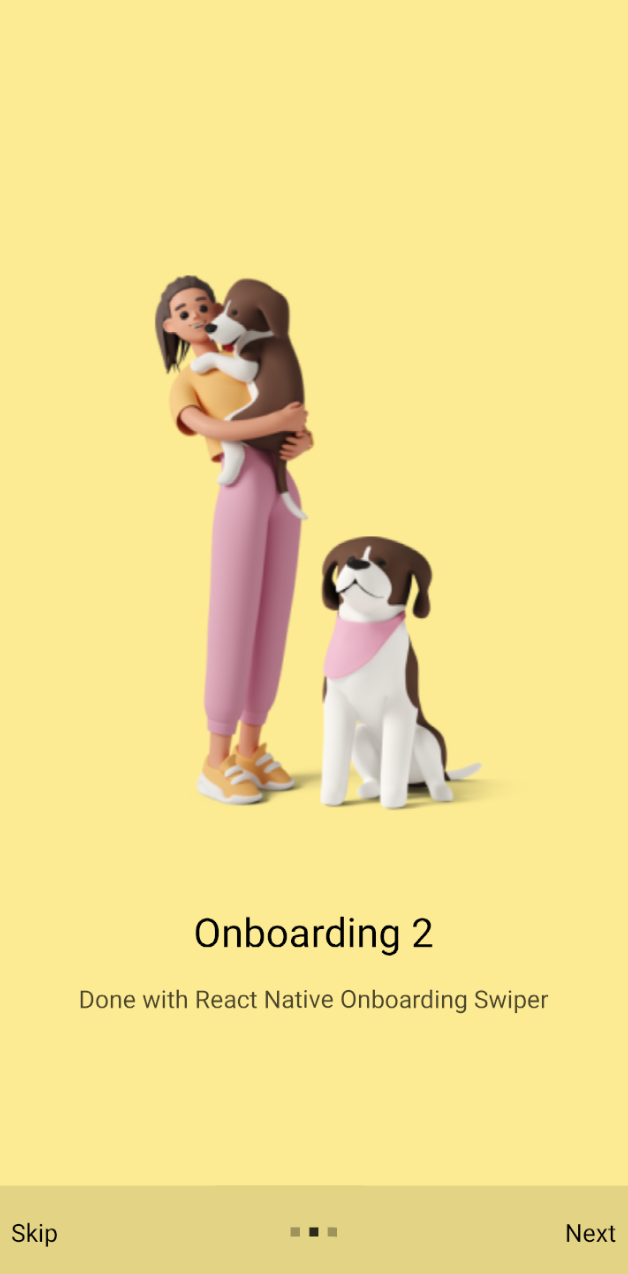
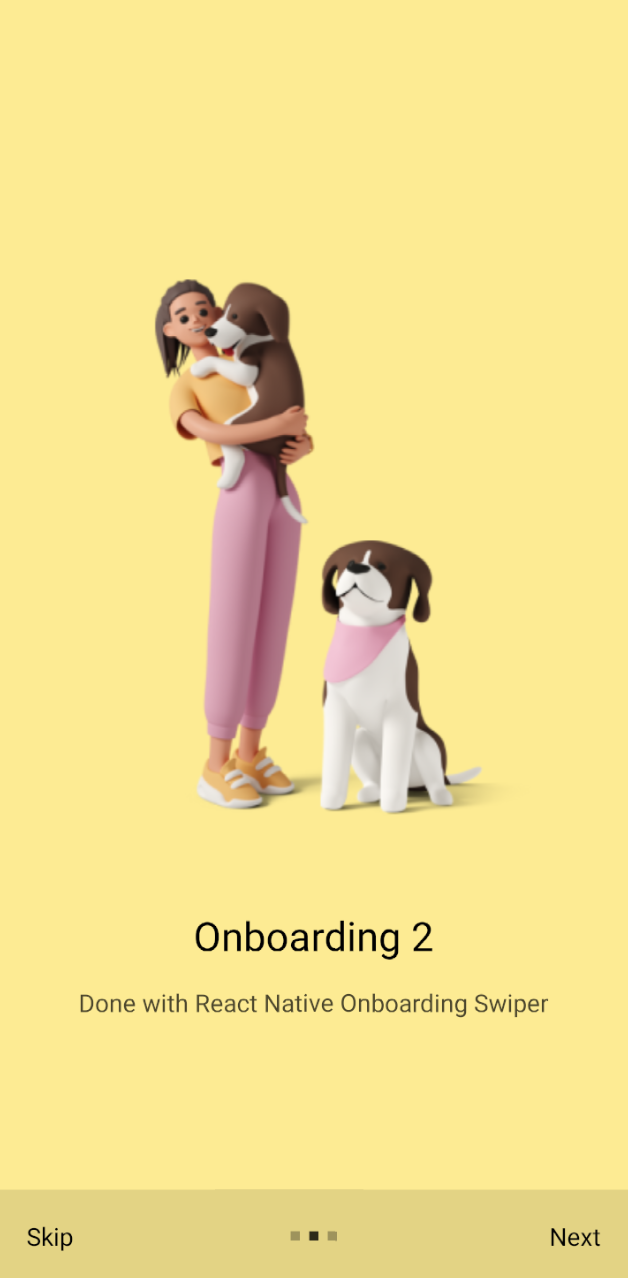
update tab bar style

diff --git a/src/screen/OnboardingScreen.js b/src/screen/OnboardingScreen.js
@@ -1,11 +1,10 @@
 import React from "react";
 import { View, Text, Button, Image, TouchableOpacity, StyleSheet } from "react-native";
 import Onboarding from 'react-native-onboarding-swiper';
-import OnboardFlow from 'react-native-onboard';
 
 const Skip = ({...props}) => (
     <TouchableOpacity 
-        style={{ marginHorizontal:10 }}
+        style={{ marginHorizontal:10, marginLeft: 20 }}
         {...props}
     >
         <Text style={{ fontSize:16 }}>Skip</Text>
@@ -14,7 +13,7 @@ const Skip = ({...props}) => (
 
 const Next = ({...props}) => (
     <TouchableOpacity 
-        style={{ marginHorizontal:10 }}
+        style={{ marginHorizontal:10, marginRight: 20 }}
         {...props}
     >
         <Text style={{ fontSize:16 }}>Next</Text>

diff --git a/App.js b/App.js
@@ -1,5 +1,4 @@
 import React from 'react';
-import { NavigationContainer } from '@react-navigation/native';
 import AppNavigator from './src/navigation/AppNavigator';
 
 function App() {
